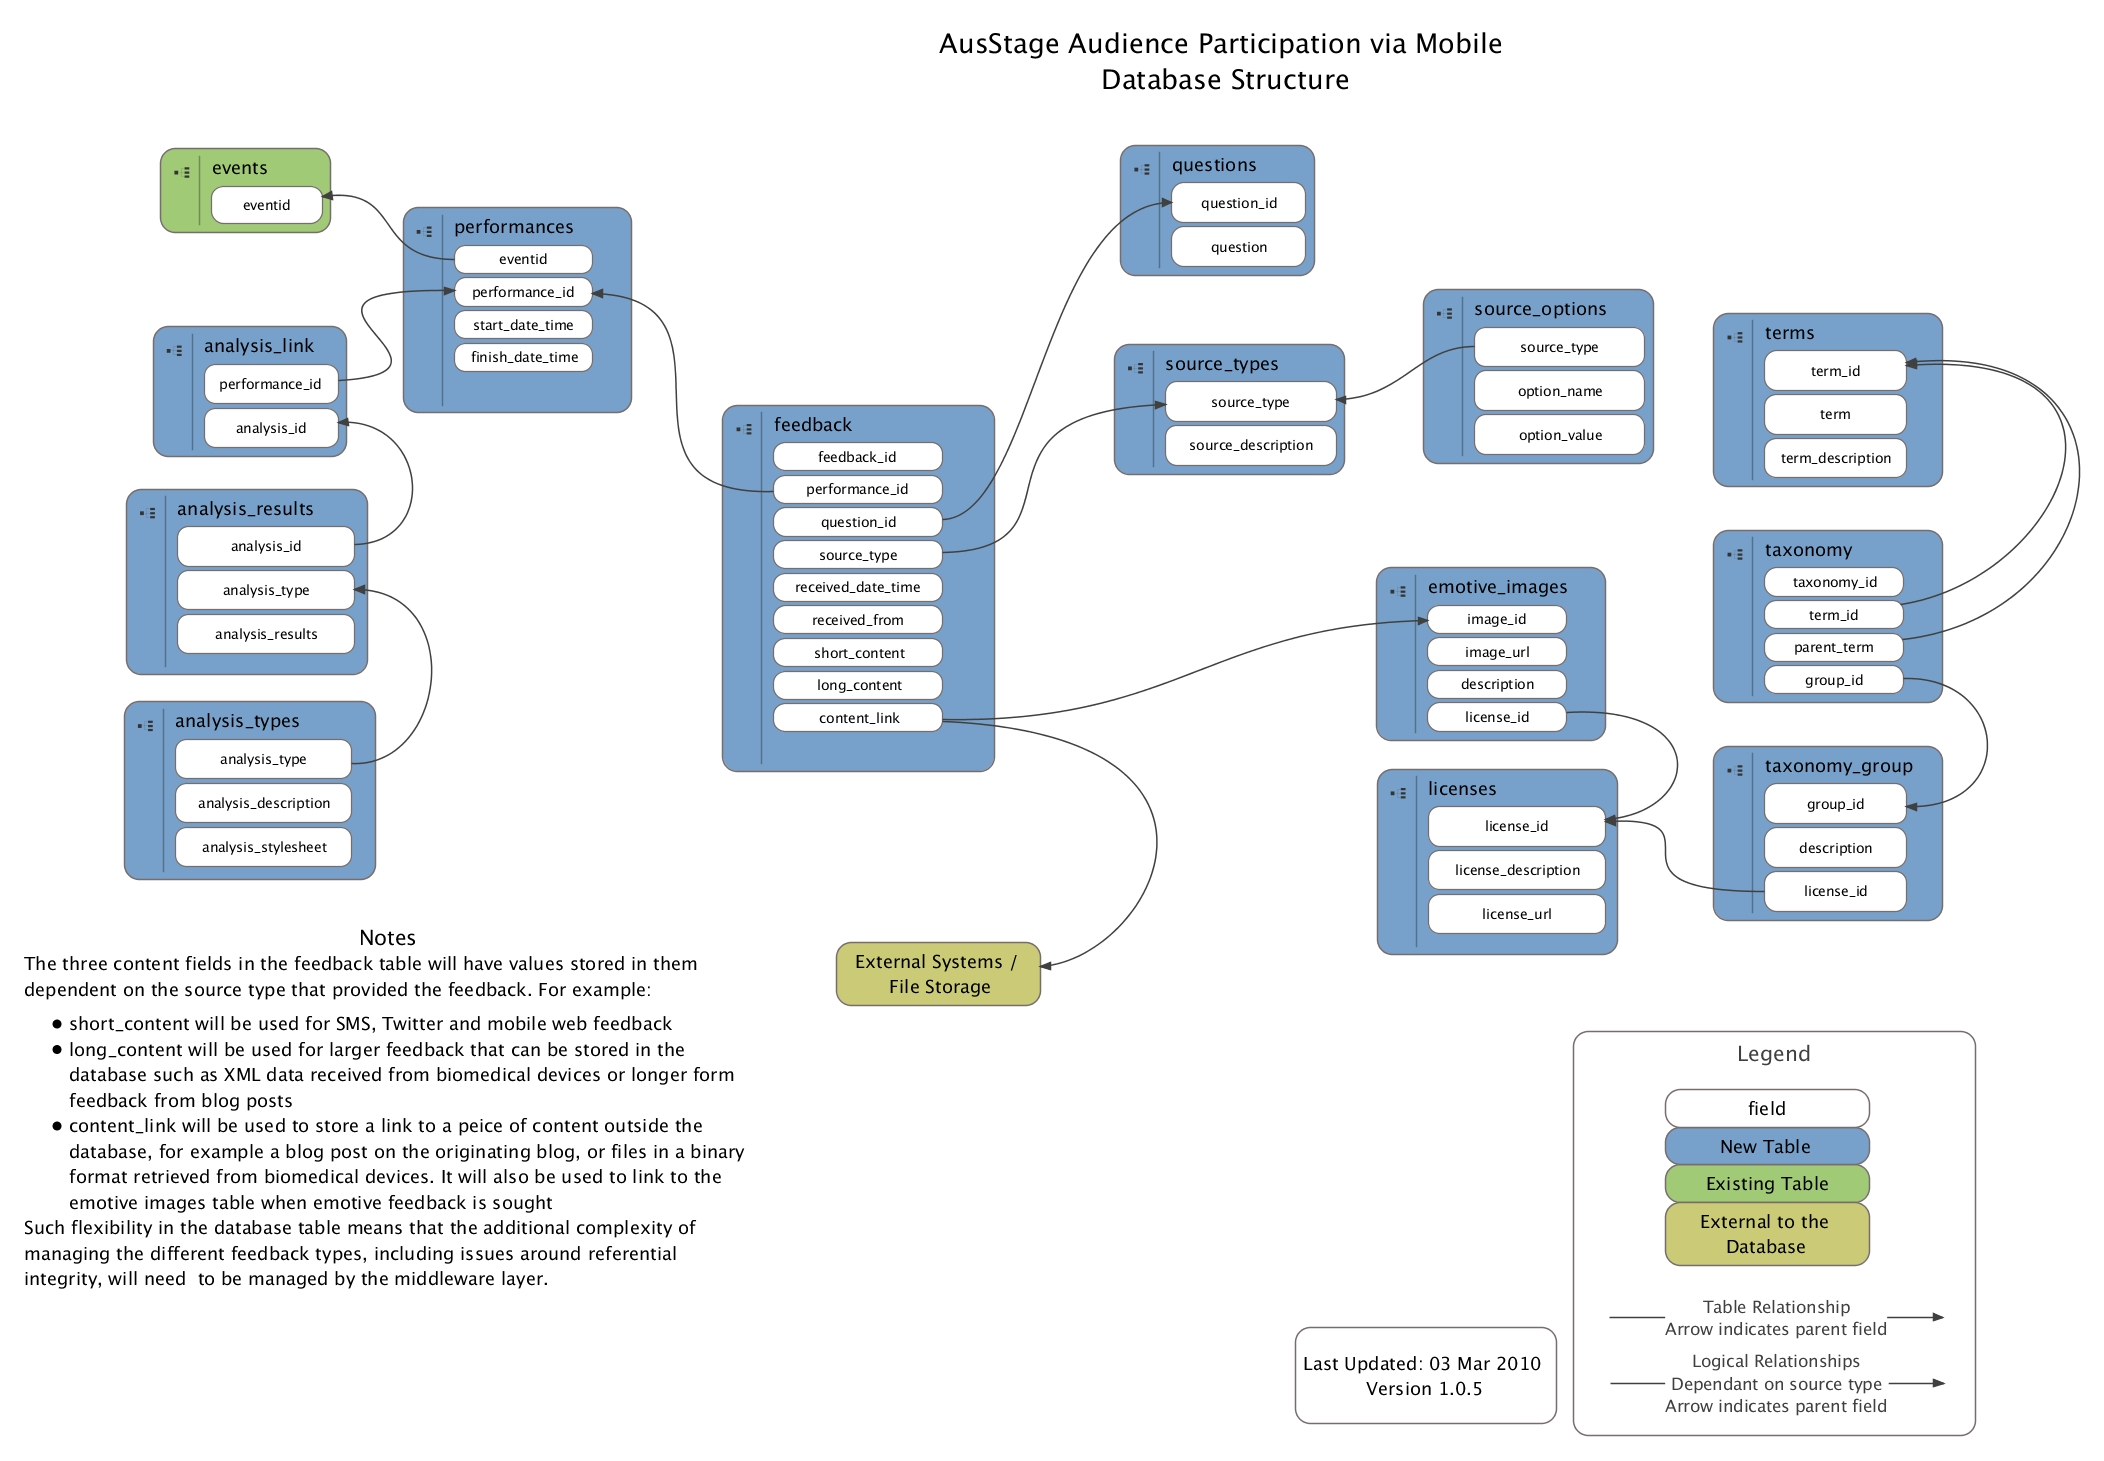
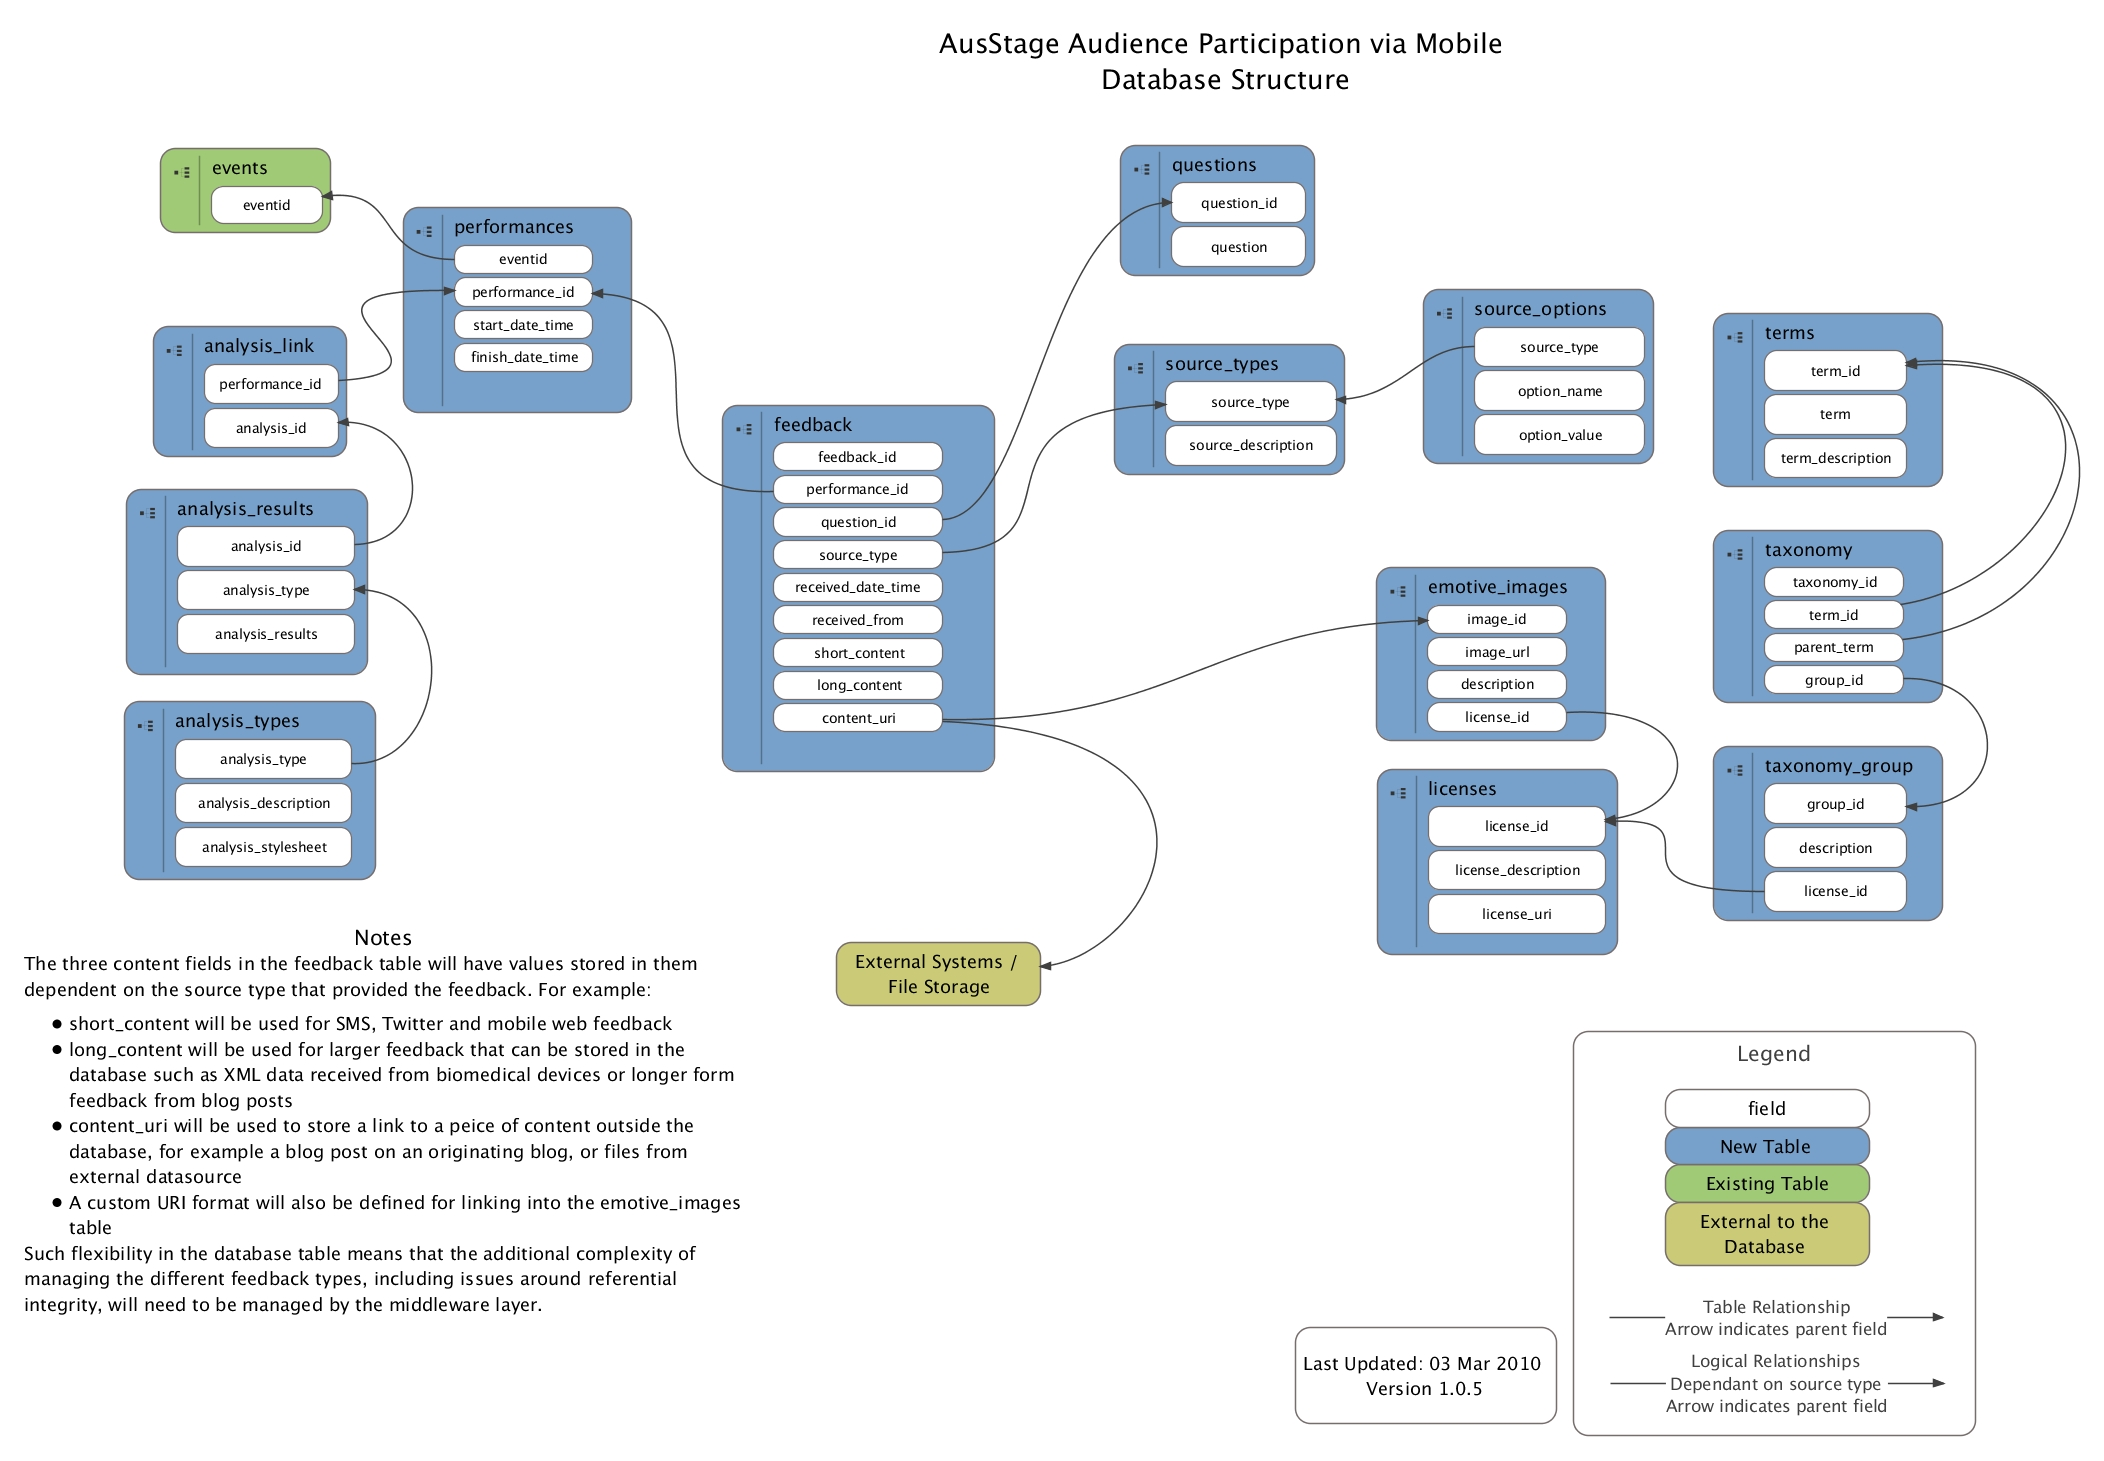
updated database diagram for mobile website

diff --git a/trunk/mobile/diagrams/database-structure.vue b/trunk/mobile/diagrams/database-structure.vue
@@ -1,14 +1,14 @@
-<!-- Tufts VUE 3.0 concept-map (database-structure.vue) 2010-03-03 -->
+<!-- Tufts VUE 3.0 concept-map (database-structure.vue) 2010-04-28 -->
 <!-- Tufts VUE: http://vue.tufts.edu/ -->
 <!-- Do Not Remove: VUE mapping @version(1.1) jar:file:/opt/VUE/VUE.jar!/tufts/vue/resources/lw_mapping_1_1.xml -->
-<!-- Do Not Remove: Saved date Wed Mar 03 15:57:49 CST 2010 by wall0252 on platform Linux 2.6.31-19-generic in JVM 1.6.0_15-b03 -->
+<!-- Do Not Remove: Saved date Wed Apr 28 15:51:20 CST 2010 by wall0252 on platform Linux 2.6.31-20-generic in JVM 1.6.0_15-b03 -->
 <!-- Do Not Remove: Saving version @(#)VUE: built February 3 2010 at 1428 by vue on Linux 2.4.21-57.EL i386 JVM 1.5.0_06-b05(bits=32) -->
 <?xml version="1.0" encoding="US-ASCII"?>
 <LW-MAP xmlns:xsi="http://www.w3.org/2001/XMLSchema-instance"
     xsi:noNamespaceSchemaLocation="none" ID="0"
     label="database-structure.vue" created="1266206917103" x="0.0"
     y="0.0" width="1.4E-45" height="1.4E-45" strokeWidth="0.0" autoSized="false">
-    <resource referenceCreated="1267594069528" size="102947"
+    <resource referenceCreated="1272435680893" size="102575"
         spec="/home/wall0252/aus-e-stage/mobile/diagrams/database-structure.vue"
         type="1" xsi:type="URLResource">
         <title>database-structure.vue</title>
@@ -65,22 +65,22 @@
         </metadata-list>
         <URIString>http://vue.tufts.edu/rdf/resource/cfe472bb7f00010101479a6b24b0a4c2</URIString>
         <richText>&lt;html&gt;
-  &lt;head color="#000000" style="color: #000000"&gt;
+  &lt;head style="color: #000000" color="#000000"&gt;
     &lt;style type="text/css"&gt;
       &lt;!--
-        body { margin-bottom: 0px; font-size: 13; color: #000000; margin-right: 0px; font-family: Arial; margin-left: 0px; margin-top: 0px }
-        ol { vertical-align: middle; font-size: 13; font-family: Arial; margin-left: 30; list-style-position: outside; margin-top: 6 }
-        p { margin-bottom: 0; color: #000000; margin-right: 0; margin-left: 0; margin-top: 0 }
-        ul { vertical-align: middle; font-size: 13; margin-left: 30; font-family: Arial; list-style-position: outside; margin-top: 6 }
+        body { font-family: Arial; margin-top: 0px; margin-bottom: 0px; margin-right: 0px; color: #000000; font-size: 13; margin-left: 0px }
+        ol { margin-top: 6; font-family: Arial; vertical-align: middle; list-style-position: outside; font-size: 13; margin-left: 30 }
+        p { margin-top: 0; margin-bottom: 0; margin-right: 0; color: #000000; margin-left: 0 }
+        ul { margin-top: 6; font-family: Arial; vertical-align: middle; list-style-position: outside; font-size: 13; margin-left: 30 }
       --&gt;
     &lt;/style&gt;
     
   &lt;/head&gt;
   &lt;body&gt;
-    &lt;p color="#000000" style="color: #000000"&gt;
+    &lt;p style="color: #000000" color="#000000"&gt;
       &lt;font style="font-size:18;"&gt;AusStage Audience Participation via Mobile&lt;/font&gt;
     &lt;/p&gt;
-    &lt;p color="#000000" style="text-align: center; color: #000000"&gt;
+    &lt;p style="text-align: center; color: #000000" color="#000000"&gt;
       &lt;font style="font-size:18;"&gt;Database Structure&lt;/font&gt;
     &lt;/p&gt;
   &lt;/body&gt;
@@ -390,7 +390,7 @@
             <URIString>http://vue.tufts.edu/rdf/resource/22734c227f00010100344a47ddb92f8c</URIString>
             <shape arcwidth="20.0" archeight="20.0" xsi:type="roundRect"/>
         </child>
-        <child ID="142" label="content_link" created="1267592288779"
+        <child ID="142" label="content_uri" created="1267592288779"
             x="34.0" y="199.0" width="149.70288" height="25.0"
             strokeWidth="1.0" autoSized="false" xsi:type="node">
             <fillColor>#FFFFFF</fillColor>
@@ -1294,7 +1294,7 @@
             <URIString>http://vue.tufts.edu/rdf/resource/cff1b5367f00010101479a6b344dca81</URIString>
             <shape arcwidth="20.0" archeight="20.0" xsi:type="roundRect"/>
         </child>
-        <child ID="77" label="license_url" created="1266208620451"
+        <child ID="77" label="license_uri" created="1266208620451"
             x="34.0" y="83.5" width="157.5" height="35.0"
             strokeWidth="1.0" autoSized="false" xsi:type="node">
             <fillColor>#FFFFFF</fillColor>
@@ -1353,19 +1353,19 @@
         </metadata-list>
         <URIString>http://vue.tufts.edu/rdf/resource/cff1b53c7f00010101479a6bd6d79271</URIString>
         <richText>&lt;html&gt;
-  &lt;head color="#404040" style="color: #404040"&gt;
+  &lt;head style="color: #404040" color="#404040"&gt;
     &lt;style type="text/css"&gt;
       &lt;!--
-        body { margin-bottom: 0px; font-size: 11; color: #404040; margin-right: 0px; font-family: Arial; margin-left: 0px; margin-top: 0px }
-        ol { vertical-align: middle; font-size: 11; font-family: Arial; margin-left: 30; list-style-position: outside; margin-top: 6 }
-        p { margin-bottom: 0; color: #404040; margin-right: 0; margin-left: 0; margin-top: 0 }
-        ul { vertical-align: middle; font-size: 11; margin-left: 30; font-family: Arial; list-style-position: outside; margin-top: 6 }
+        body { font-family: Arial; margin-top: 0px; margin-bottom: 0px; margin-right: 0px; color: #404040; font-size: 11; margin-left: 0px }
+        ol { margin-top: 6; font-family: Arial; vertical-align: middle; list-style-position: outside; font-size: 11; margin-left: 30 }
+        p { margin-top: 0; margin-bottom: 0; margin-right: 0; color: #404040; margin-left: 0 }
+        ul { margin-top: 6; font-family: Arial; vertical-align: middle; list-style-position: outside; font-size: 11; margin-left: 30 }
       --&gt;
     &lt;/style&gt;
     
   &lt;/head&gt;
   &lt;body&gt;
-    &lt;p color="#404040" style="text-align: center; color: #404040"&gt;
+    &lt;p style="text-align: center; color: #404040" color="#404040"&gt;
       &lt;font style="font-size:14;"&gt;Legend&lt;/font&gt;
     &lt;/p&gt;
   &lt;/body&gt;
@@ -1804,9 +1804,9 @@
         <ctrlPoint1 x="671.3518" y="628.7037" xsi:type="point"/>
     </child>
     <child ID="150"
-        label="Notes&#xa;    &#xa;    &#xa;      The three content &#xa;      fields in the feedback table will have values stored in them dependent &#xa;      on the source type that provided the feedback. For example:&#xa;    &#xa;    &#xa;      &#xa;        short_content will be used for SMS, Twitter and mobile web feedback&#xa;      &#xa;      &#xa;        long_content will be used for larger feedback that can be stored in &#xa;        the database such as XML data received from biomedical devices or &#xa;        longer form feedback from blog posts&#xa;      &#xa;      &#xa;        content_link will be used to store a link to a peice of content &#xa;        outside the database, for example a blog post on the originating blog, &#xa;        or files in a binary format retrieved from biomedical devices. It will &#xa;        also be used to link to the emotive images table when emotive feedback &#xa;        is sought&#xa;      &#xa;    &#xa;    &#xa;      Such flexibility in the database table means that the additional &#xa;      complexity of managing the different feedback types, including issues &#xa;      around referential integrity, will need  to be managed by the middleware &#xa;      layer."
+        label="Notes &#xa;    &#xa;    &#xa;      The three content fields in the feedback &#xa;      table will have values stored in them dependent on the source type that &#xa;      provided the feedback. For example: &#xa;    &#xa;    &#xa;      &#xa;        short_content will be used for SMS, Twitter and mobile web feedback&#xa;      &#xa;      &#xa;        long_content will be used for larger feedback that can be stored in &#xa;        the database such as XML data received from biomedical devices or &#xa;        longer form feedback from blog posts&#xa;      &#xa;      &#xa;        content_uri will be used to store a link to a peice of content outside &#xa;        the database, for example a blog post on an originating blog, or files &#xa;        from external datasource&#xa;      &#xa;      &#xa;        A custom URI format will also be defined for linking into the &#xa;        emotive_images table&#xa;      &#xa;    &#xa;    &#xa;      Such flexibility in the database table means that the additional &#xa;      complexity of managing the different feedback types, including issues &#xa;      around referential integrity, will need to be managed by the middleware &#xa;      layer."
         layerID="1" created="1267593467084" x="-81.23207" y="603.7031"
-        width="486.0" height="252.0" strokeWidth="0.0" autoSized="false" xsi:type="text">
+        width="483.0" height="285.0" strokeWidth="0.0" autoSized="false" xsi:type="text">
         <strokeColor>#404040</strokeColor>
         <textColor>#000000</textColor>
         <font>-plain-12</font>
@@ -1821,58 +1821,60 @@
         </metadata-list>
         <URIString>http://vue.tufts.edu/rdf/resource/227ac6ee7f00010100344a470d836362</URIString>
         <richText>&lt;html&gt;
-  &lt;head color="#000000" style="color: #000000"&gt;
+  &lt;head style="color: #000000" color="#000000"&gt;
     &lt;style type="text/css"&gt;
       &lt;!--
-        body { margin-bottom: 0px; font-size: 12; color: #000000; margin-right: 0px; font-family: Arial; margin-left: 0px; margin-top: 0px }
-        ol { vertical-align: middle; font-size: 12; font-family: Arial; margin-left: 30; list-style-position: outside; margin-top: 6 }
-        p { margin-bottom: 0; color: #000000; margin-right: 0; margin-left: 0; margin-top: 0 }
-        ul { vertical-align: middle; font-size: 12; margin-left: 30; font-family: Arial; list-style-position: outside; margin-top: 6 }
+        body { font-family: Arial; margin-top: 0px; margin-bottom: 0px; margin-right: 0px; color: #000000; font-size: 12; margin-left: 0px }
+        ol { margin-top: 6; font-family: Arial; vertical-align: middle; list-style-position: outside; font-size: 12; margin-left: 30 }
+        p { margin-top: 0; margin-bottom: 0; margin-right: 0; color: #000000; margin-left: 0 }
+        ul { margin-top: 6; font-family: Arial; vertical-align: middle; list-style-position: outside; font-size: 12; margin-left: 30 }
       --&gt;
     &lt;/style&gt;
     
   &lt;/head&gt;
   &lt;body&gt;
-    &lt;p color="#000000" style="text-align: center; color: #000000"&gt;
-      &lt;font style="font-size:14;"&gt;Notes
-&lt;/font&gt;    &lt;/p&gt;
+    &lt;p style="text-align: center; color: #000000" color="#000000"&gt;
+      &lt;font style="font-size:14;"&gt;Notes &lt;/font&gt;
+    &lt;/p&gt;
     &lt;p color="#000000"&gt;
-      &lt;font style="font-size:12;" style="font-size: 12"&gt;The three content 
-      fields in the feedback table will have values stored in them dependent 
-      on the source type that provided the feedback. For example:
-&lt;/font&gt;    &lt;/p&gt;
+      &lt;font style="font-size:12;"&gt;The three content fields in the feedback 
+      table will have values stored in them dependent on the source type that 
+      provided the feedback. For example: &lt;/font&gt;
+    &lt;/p&gt;
     &lt;ul color="#000000"&gt;
-      &lt;li color="#000000" style="color: #000000"&gt;
+      &lt;li style="color: #000000" color="#000000"&gt;
         short_content will be used for SMS, Twitter and mobile web feedback
       &lt;/li&gt;
-      &lt;li color="#000000" style="color: #000000"&gt;
+      &lt;li style="color: #000000" color="#000000"&gt;
         long_content will be used for larger feedback that can be stored in 
         the database such as XML data received from biomedical devices or 
         longer form feedback from blog posts
       &lt;/li&gt;
-      &lt;li color="#000000" style="color: #000000"&gt;
-        content_link will be used to store a link to a peice of content 
-        outside the database, for example a blog post on the originating blog, 
-        or files in a binary format retrieved from biomedical devices. It will 
-        also be used to link to the emotive images table when emotive feedback 
-        is sought
+      &lt;li style="color: #000000" color="#000000"&gt;
+        content_uri will be used to store a link to a peice of content outside 
+        the database, for example a blog post on an originating blog, or files 
+        from external datasource
+      &lt;/li&gt;
+      &lt;li style="color: #000000" color="#000000"&gt;
+        A custom URI format will also be defined for linking into the 
+        emotive_images table
       &lt;/li&gt;
     &lt;/ul&gt;
     &lt;p color="#000000"&gt;
       Such flexibility in the database table means that the additional 
       complexity of managing the different feedback types, including issues 
-      around referential integrity, will need  to be managed by the middleware 
-      layer. 
+      around referential integrity, will need to be managed by the middleware 
+      layer.
     &lt;/p&gt;
   &lt;/body&gt;
 &lt;/html&gt;
 </richText>
-        <label>Notes
+        <label>Notes 
     
     
-      The three content 
-      fields in the feedback table will have values stored in them dependent 
-      on the source type that provided the feedback. For example:
+      The three content fields in the feedback 
+      table will have values stored in them dependent on the source type that 
+      provided the feedback. For example: 
     
     
       
@@ -1884,17 +1886,19 @@
         longer form feedback from blog posts
       
       
-        content_link will be used to store a link to a peice of content 
-        outside the database, for example a blog post on the originating blog, 
-        or files in a binary format retrieved from biomedical devices. It will 
-        also be used to link to the emotive images table when emotive feedback 
-        is sought
+        content_uri will be used to store a link to a peice of content outside 
+        the database, for example a blog post on an originating blog, or files 
+        from external datasource
+      
+      
+        A custom URI format will also be defined for linking into the 
+        emotive_images table
       
     
     
       Such flexibility in the database table means that the additional 
       complexity of managing the different feedback types, including issues 
-      around referential integrity, will need  to be managed by the middleware 
+      around referential integrity, will need to be managed by the middleware 
       layer.</label>
     </child>
     <layer ID="1" label="Layer 1" created="1266206917107" x="0.0"
@@ -1905,8 +1909,8 @@
         </metadata-list>
         <URIString>http://vue.tufts.edu/rdf/resource/cfe473297f00010101479a6b158756f1</URIString>
     </layer>
-    <userZoom>0.9479094546081579</userZoom>
-    <userOrigin x="-144.66246" y="-7.0520906"/>
+    <userZoom>1.0</userZoom>
+    <userOrigin x="-93.23207" y="-7.0"/>
     <presentationBackground>#202020</presentationBackground>
     <PathwayList currentPathway="0" revealerIndex="-1">
         <pathway ID="0" label="Untitled Pathway" created="1266206917101"
